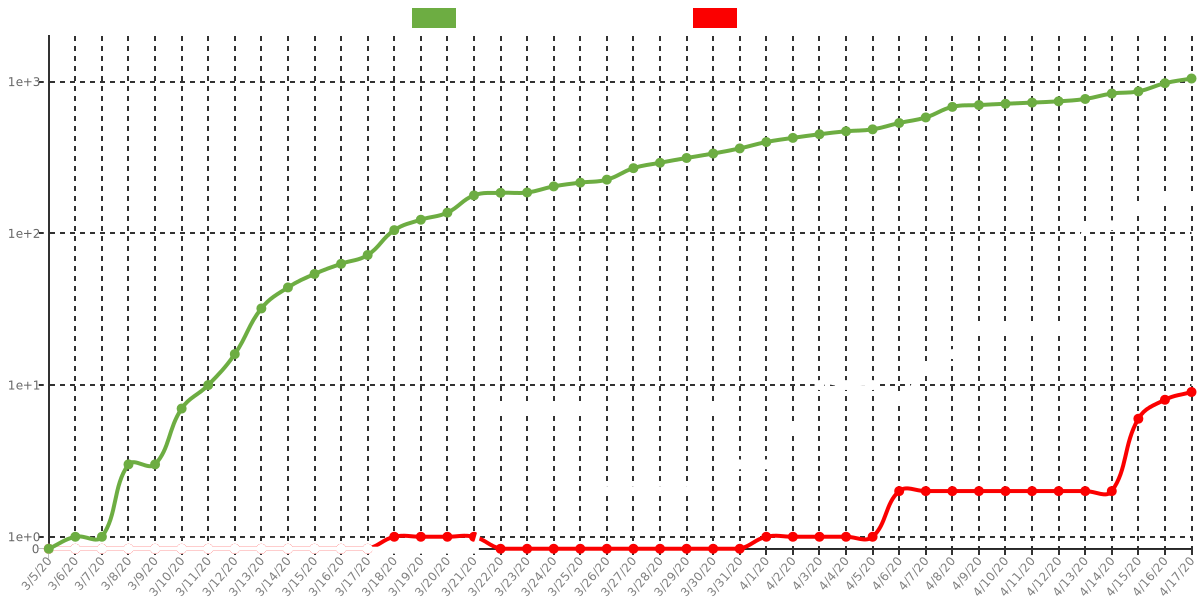
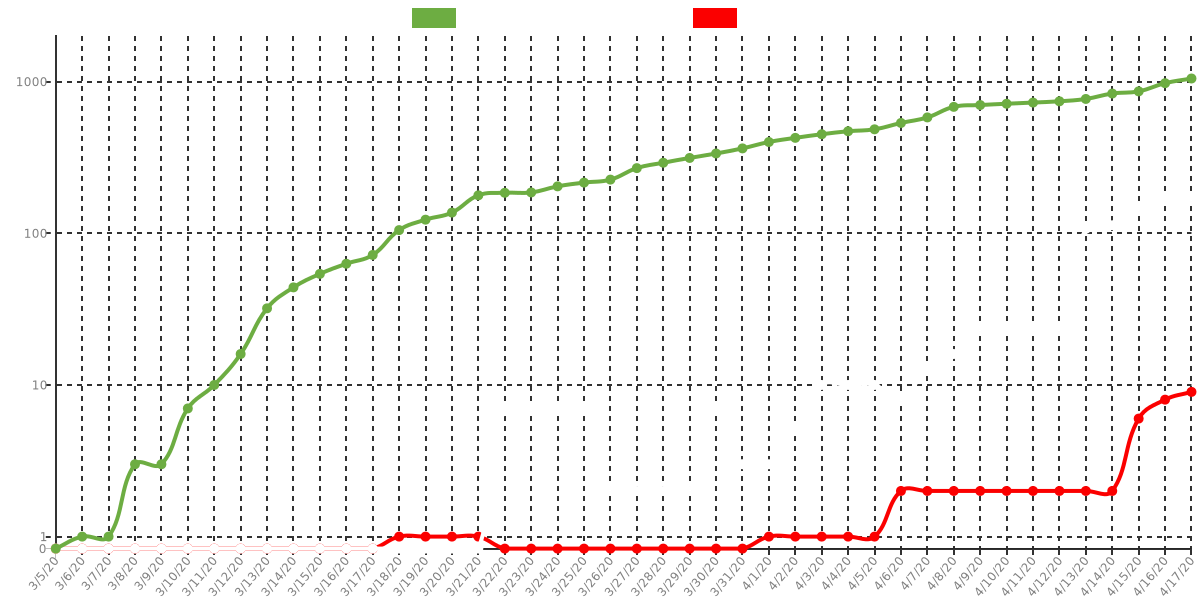
fix y ticks

diff --git a/src/chart.js b/src/chart.js
@@ -52,7 +52,7 @@ function drawChart(chartNode, timeAxis, dataConfirmed, dataRecovered, dataDeaths
     options: {
       scales: {
         xAxes: [{gridLines, ticks}],
-        yAxes: [{gridLines, yticks, type: 'logarithmic', afterBuildTicks: function (chartObj) { //Build ticks labelling as per your need
+        yAxes: [{gridLines, ticks: yticks, type: 'logarithmic', afterBuildTicks: function (chartObj) { //Build ticks labelling as per your need
         chartObj.ticks = [];
         chartObj.ticks.push(0);
         chartObj.ticks.push(1);
